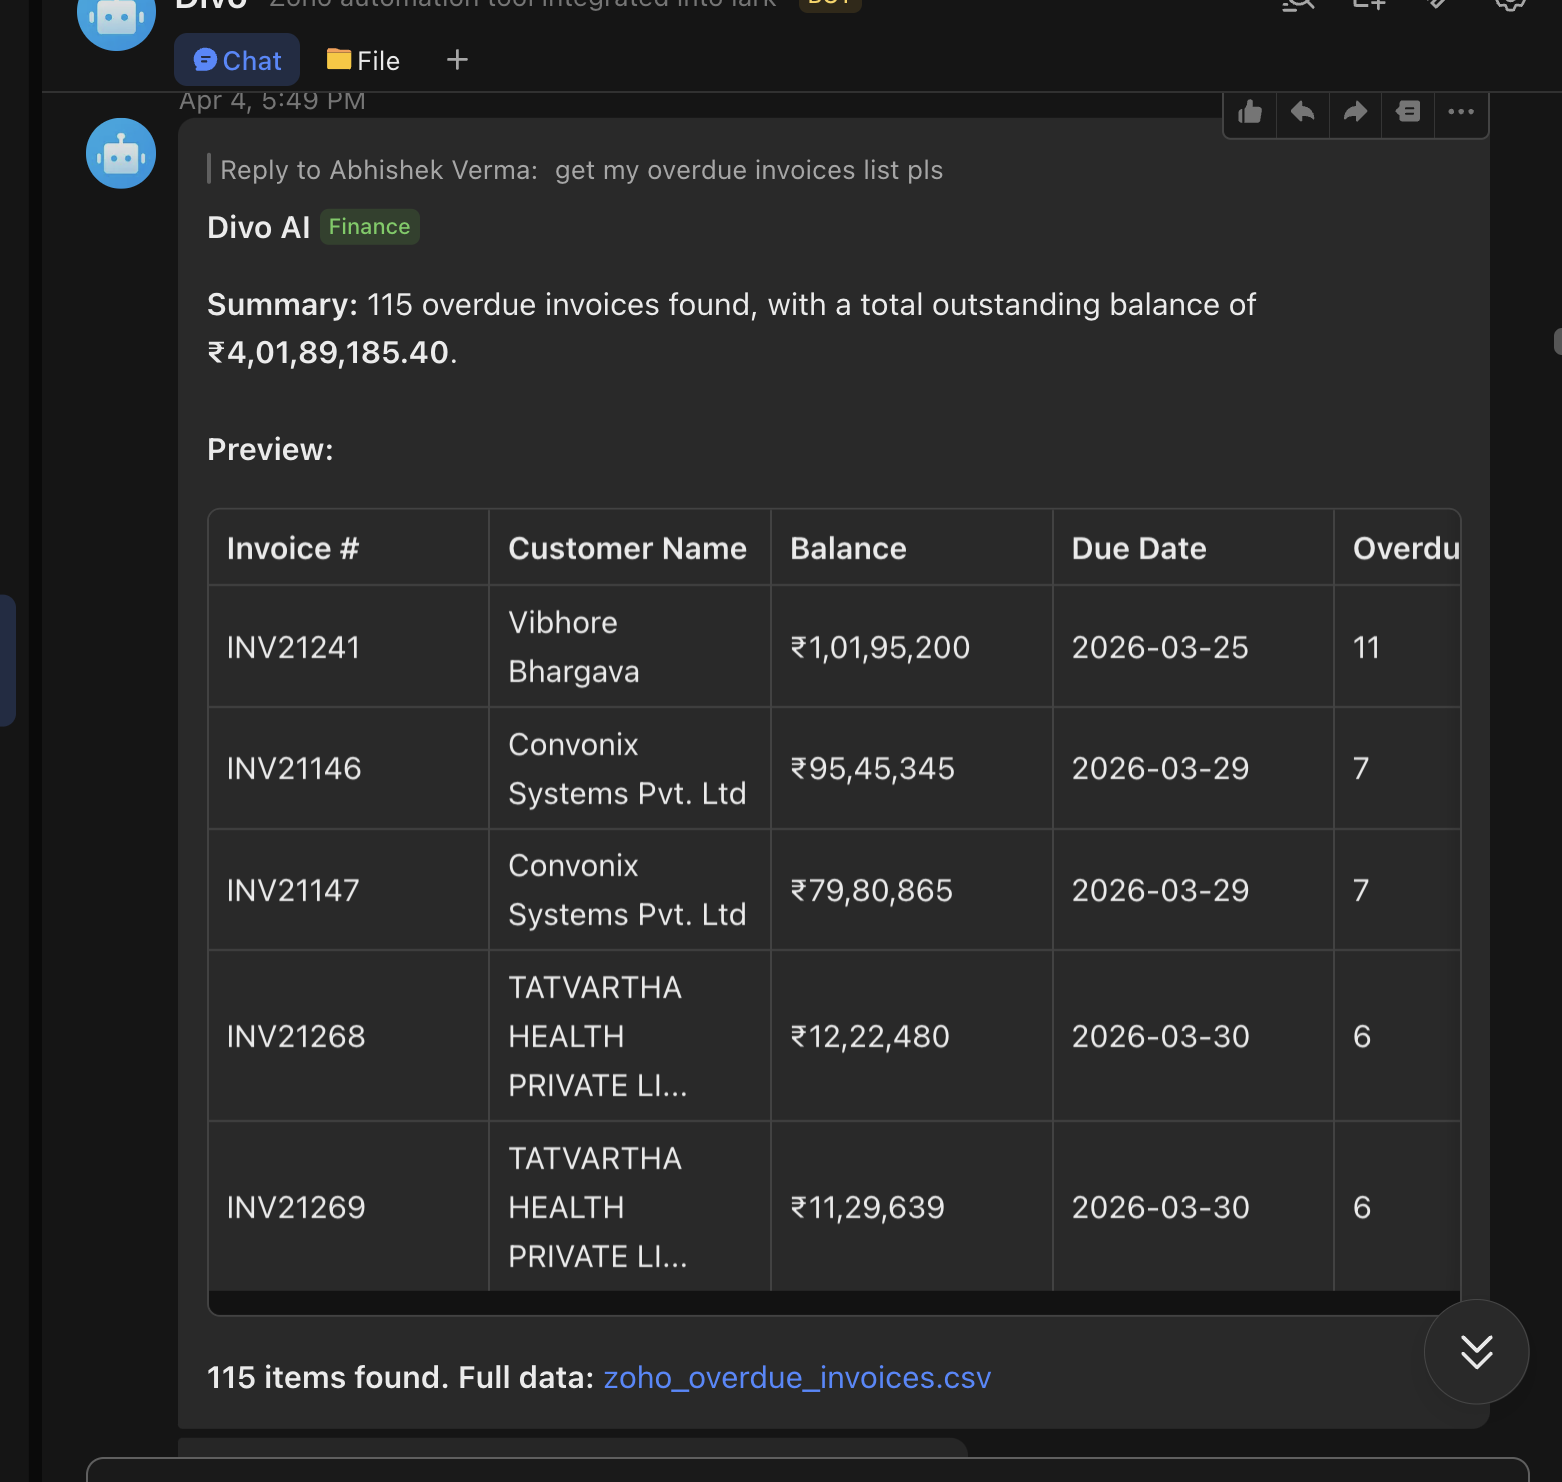
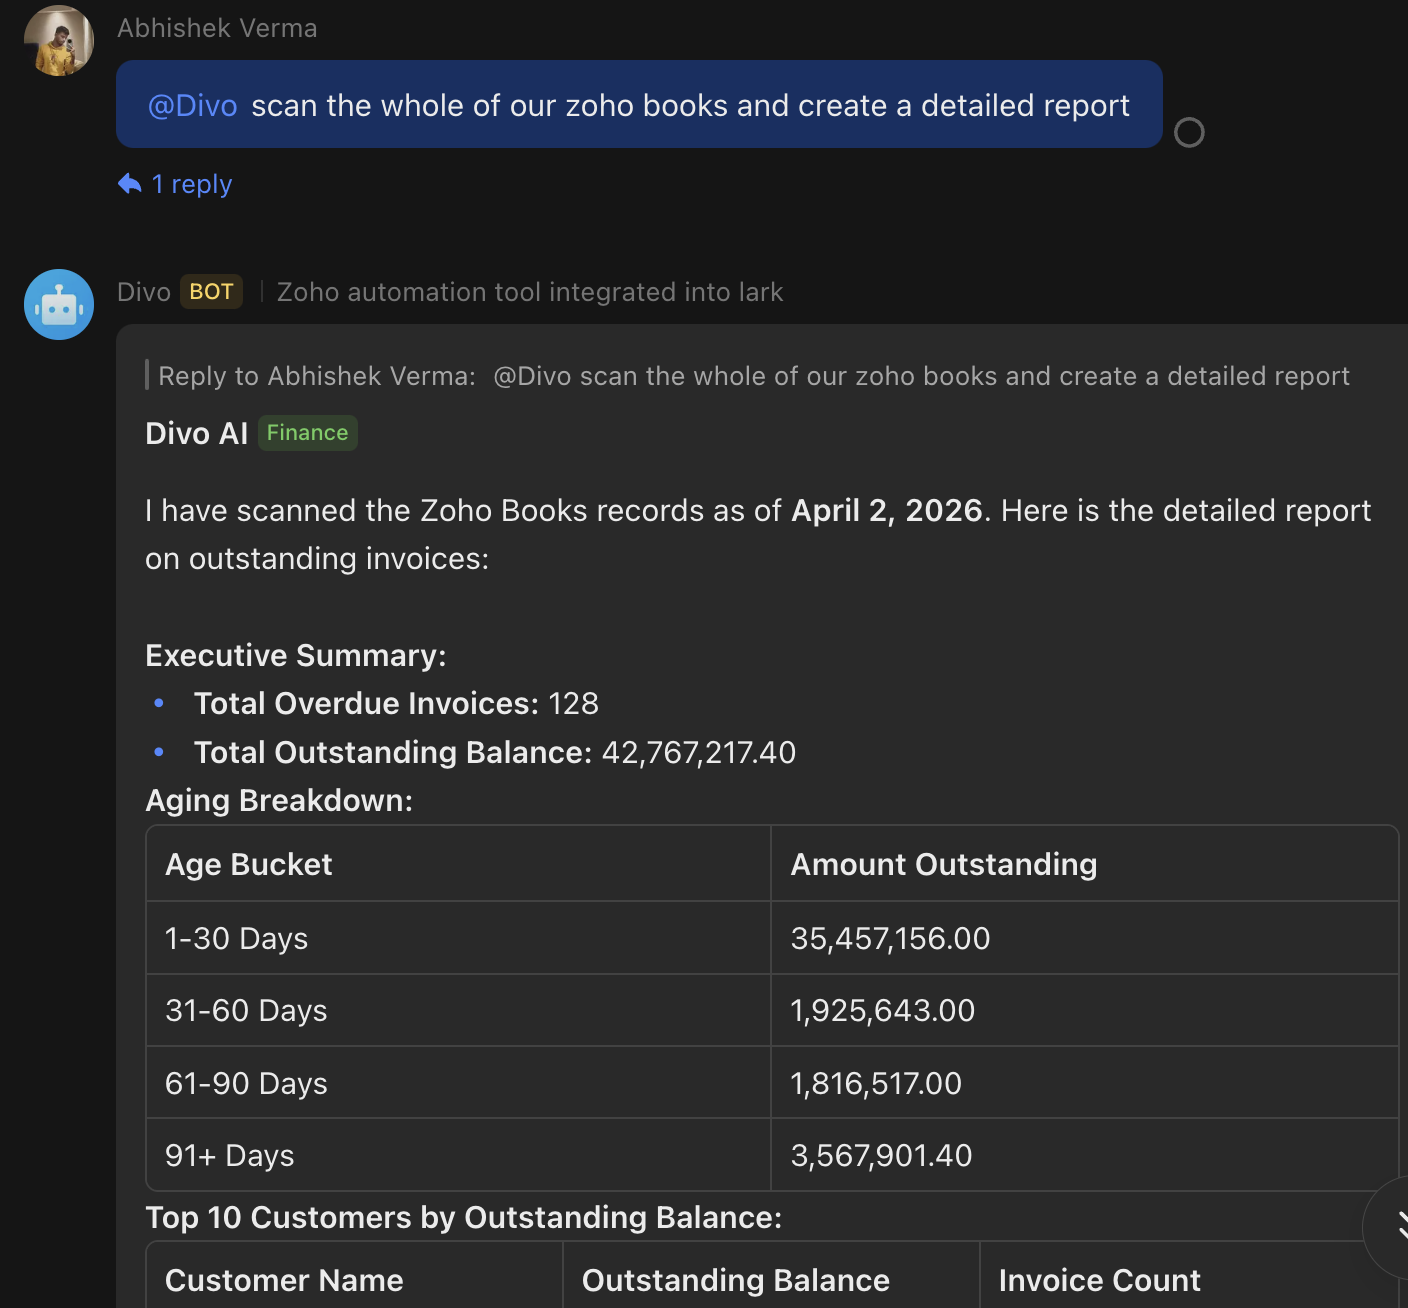
done

diff --git a/hrm8-pitch.html b/hrm8-pitch.html
@@ -296,8 +296,8 @@ h3 { font-size:17px; font-weight:600; color:var(--text); }
   /* ── RBAC image taller since it's portrait ── */
   #s-rbac .ss-body img { height:360px !important; max-height:360px !important; }
 
-  /* ── Lark screenshots ── */
-  #s-lark .ss-body img { height:200px !important; max-height:200px !important; }
+  /* ── Lark screenshots — no height cap, show full image ── */
+  #s-lark .ss-body img { height:auto !important; max-height:none !important; object-fit:unset !important; }
 
   /* ── Persona cards ── */
   .persona-card { padding:24px 20px !important; }
@@ -651,6 +651,15 @@ h3 { font-size:17px; font-weight:600; color:var(--text); }
             <div>✓ Manage FTE & contract from one dashboard</div>
           </div>
         </div>
+        <div style="padding:16px 18px;background:rgba(6,182,212,0.05);border:1px solid rgba(6,182,212,0.2);border-radius:12px">
+          <div style="font-size:10px;font-weight:800;color:var(--cyan);letter-spacing:1.5px;margin-bottom:10px">RULE ENGINE</div>
+          <div style="display:flex;flex-direction:column;gap:6px;font-size:13px;color:var(--text2)">
+            <div>✓ Automate stage transitions on score thresholds</div>
+            <div>✓ Route candidates to the right reviewer automatically</div>
+            <div>✓ Trigger notifications & tasks per stage</div>
+            <div>✓ Built for multi-member hiring teams</div>
+          </div>
+        </div>
         <div style="padding:12px 16px;background:var(--p-light);border:1px solid rgba(79,70,229,0.2);border-radius:10px;font-size:13px;color:var(--text2);line-height:1.6">
           <strong style="color:var(--p)">One dashboard</strong> — HR admin sees and manages all open positions, all job types, all candidates in one place.
         </div>
@@ -925,7 +934,7 @@ h3 { font-size:17px; font-weight:600; color:var(--text); }
             <div class="ss-dot" style="background:#f59e0b"></div>
             <div class="ss-dot" style="background:#10b981"></div>
           </div>
-          <div class="ss-body"><img src="assets/ss-lark-1.png" alt="Lark AI Agent" style="width:100%;display:block;height:220px;object-fit:cover;object-position:top;"></div>
+          <div class="ss-body"><img src="assets/ss-lark-1.png" alt="Lark AI Agent" style="width:100%;display:block;"></div>
         </div>
       </div>
       <div>
@@ -936,7 +945,7 @@ h3 { font-size:17px; font-weight:600; color:var(--text); }
             <div class="ss-dot" style="background:#f59e0b"></div>
             <div class="ss-dot" style="background:#10b981"></div>
           </div>
-          <div class="ss-body"><img src="assets/ss-lark-2.png" alt="Invoice Management" style="width:100%;display:block;height:220px;object-fit:cover;object-position:top;"></div>
+          <div class="ss-body"><img src="assets/ss-lark-2.png" alt="Invoice Management" style="width:100%;display:block;"></div>
         </div>
       </div>
     </div>
